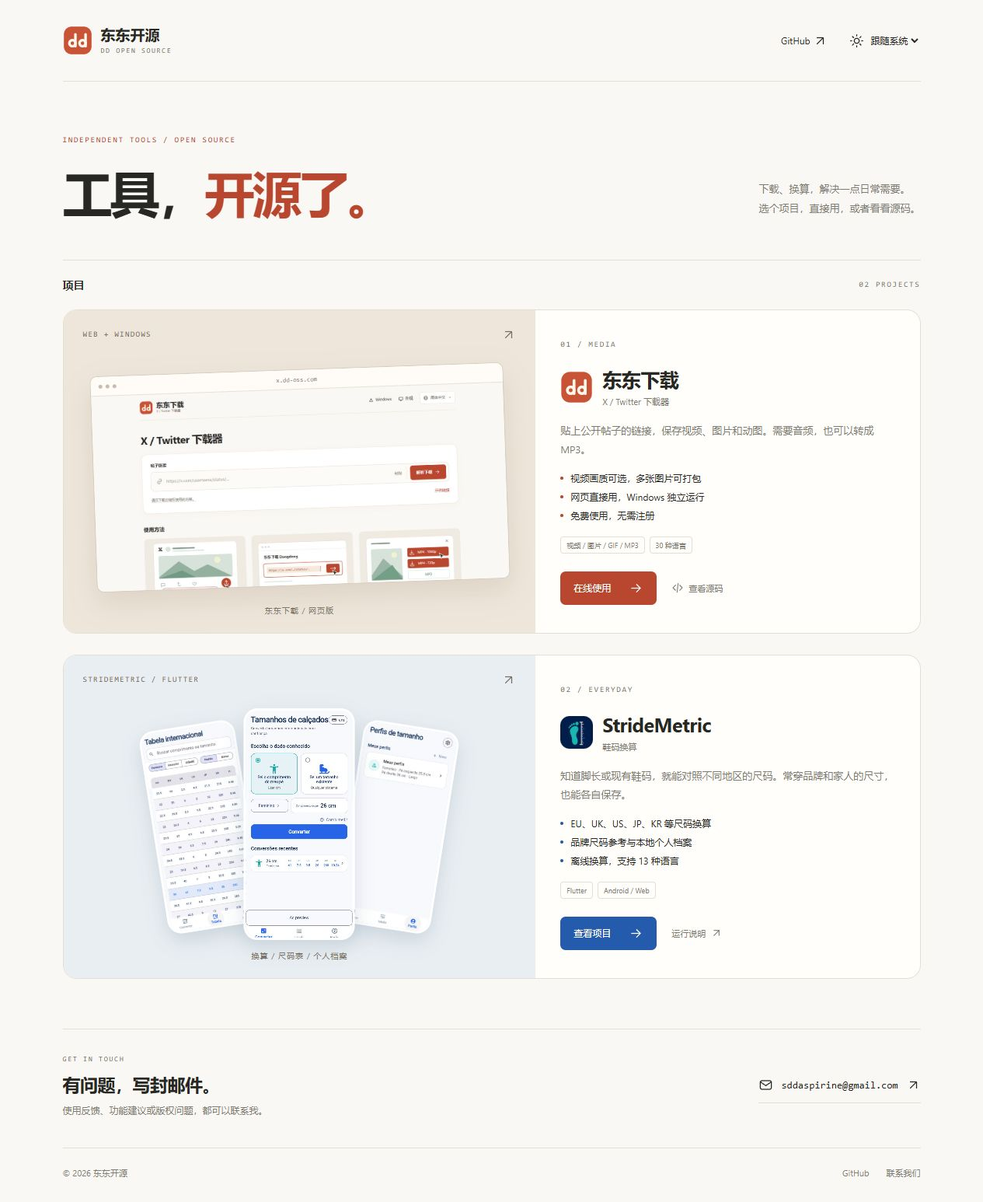
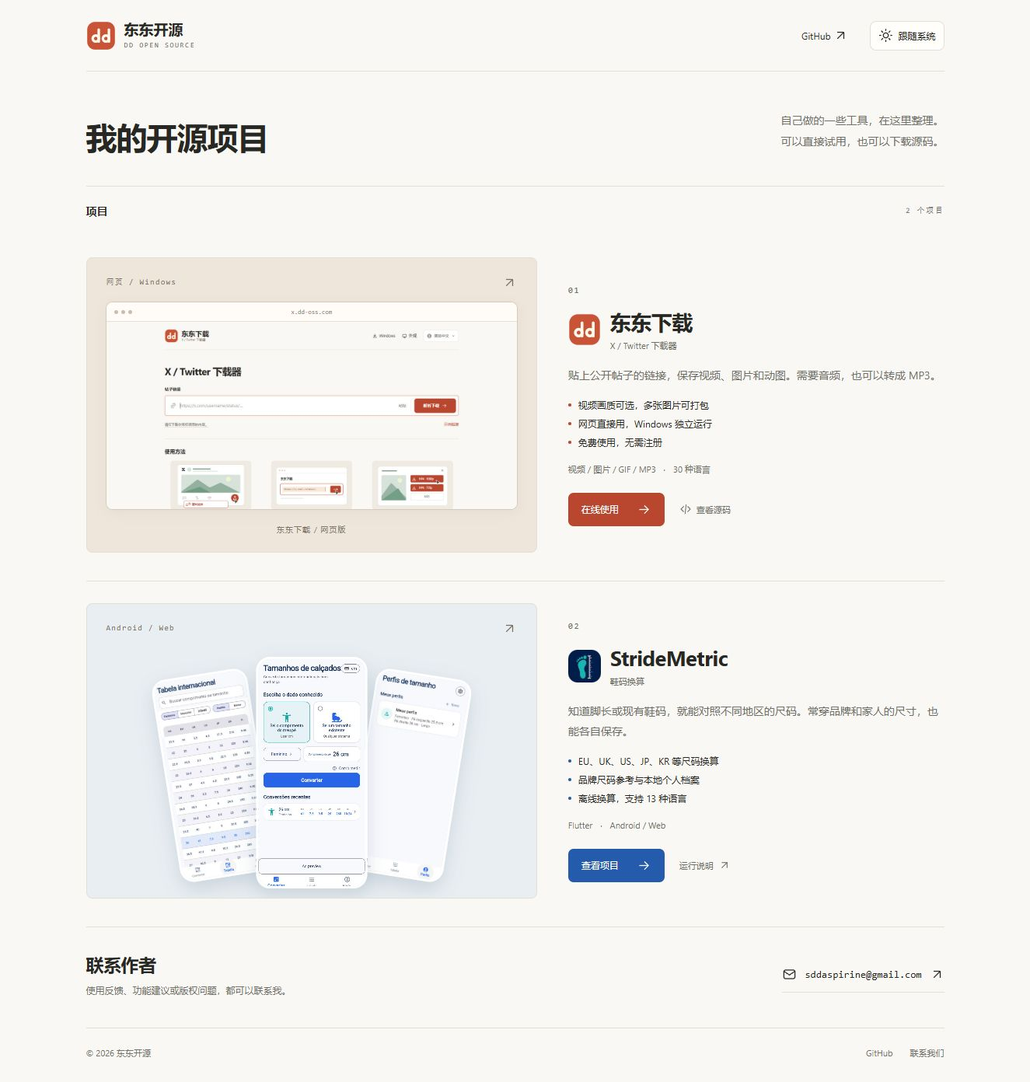
Add open-source project showcase at dd-oss.com

diff --git a/style.css b/style.css
@@ -1,7 +1,158 @@
-:root{color-scheme:light;--bg:#faf8f4;--paper:#fffefa;--ink:#272823;--muted:#7d7b72;--line:#e4dfd5;--rust:#b9472f;--green:#dce4d9;--blue:#255bad;--soft:#f1ede5;--blue-soft:#e9eef2;font-family:"Segoe UI","Microsoft YaHei UI",sans-serif;font-synthesis:none}
-*{box-sizing:border-box}body{margin:0;background:var(--bg);color:var(--ink)}a{color:inherit;text-decoration:none}svg{width:19px;height:19px;stroke:currentColor;stroke-width:1.6;fill:none;stroke-linecap:round;stroke-linejoin:round;flex-shrink:0}.symbols{position:absolute;width:0;height:0;overflow:hidden}.shell{max-width:1192px;margin:auto;padding:0 44px}header{height:105px;display:flex;align-items:center;justify-content:space-between;border-bottom:1px solid var(--line)}.brand{display:flex;align-items:center;gap:11px;font-size:19px;font-weight:700}.brand img{border-radius:11px}.brand small{display:block;font:9px/1.8 Consolas,monospace;letter-spacing:1.6px;color:var(--muted)}nav{display:flex;align-items:center;gap:28px;font-size:12px}nav>a{display:flex;align-items:center;gap:3px;padding:10px 0}.theme{display:flex;align-items:center;gap:5px}.theme select{border:0;background:transparent;color:var(--ink);font:inherit;cursor:pointer;min-height:38px}.theme select option{background:var(--paper)}.intro{padding:68px 0 50px}.eyebrow,.project-number,.preview-label,.preview-caption,.section-heading>span{font:10px/1.5 Consolas,monospace;letter-spacing:1.7px}.eyebrow{color:var(--rust);margin:0 0 22px}.intro-row{display:flex;align-items:flex-end;justify-content:space-between;gap:35px}.intro h1{font-size:64px;line-height:1.16;font-weight:650;letter-spacing:-3px;margin:0}.intro h1 span{color:var(--rust)}.intro-row>p{font-size:13px;line-height:1.9;color:var(--muted);margin:0 0 4px}.section-heading{display:flex;align-items:center;justify-content:space-between;border-top:1px solid var(--line);padding:22px 0}.section-heading h2{font-size:14px;font-weight:600;margin:0}.section-heading>span{color:var(--muted)}.project{display:grid;grid-template-columns:minmax(0,1.23fr) minmax(0,1fr);border:1px solid var(--line);border-radius:18px;overflow:hidden;background:var(--paper);margin-bottom:27px}.project-preview{height:415px;position:relative;overflow:hidden;display:block}.desktop-preview{background:#eee6db}.preview-label{position:absolute;inset:22px 25px auto;display:flex;align-items:center;justify-content:space-between;color:#776e61;z-index:1;letter-spacing:1.3px}.preview-caption{position:absolute;inset:auto 0 21px;text-align:center;color:#827668;letter-spacing:1px;font-family:inherit;font-size:10px}.browser-frame{position:absolute;top:76px;left:38px;width:calc(100% - 76px);height:278px;border:1px solid #d5cabc;border-radius:9px;overflow:hidden;background:#faf8f4;box-shadow:0 15px 35px #725d4224;transform:rotate(-2deg);transition:transform .3s}.browser-bar{height:25px;display:flex;align-items:center;gap:4px;border-bottom:1px solid #e6e0d6;background:#fffcf7;padding:0 10px;position:relative}.browser-bar i{height:5px;width:5px;border-radius:50%;background:#c8bdaf}.browser-bar span{position:absolute;left:0;right:0;text-align:center;color:#918879;font:8px Consolas,monospace}.browser-frame>img{display:block;width:100%;height:auto}.project-preview:hover .browser-frame{transform:rotate(0) translateY(-4px)}.project-copy{padding:30px 32px;display:flex;flex-direction:column;justify-content:center}.project-number{color:var(--muted);font-size:10px;margin-bottom:22px}.project-title{display:flex;align-items:center;gap:12px}.project-title img{border-radius:12px}.project-title h2{font-size:25px;font-weight:650;line-height:1.2;margin:0;letter-spacing:-.5px}.project-title h2 small{display:block;font-size:11px;color:var(--muted);font-weight:400;letter-spacing:0;margin-top:7px}.project-copy>p{font-size:13px;line-height:1.85;color:var(--muted);margin:19px 0 13px}.features{list-style:none;margin:0;padding:0;font-size:12px;line-height:2;color:var(--ink)}.features li{position:relative;padding-left:13px}.features li:before{content:"";width:4px;height:4px;border-radius:50%;background:var(--rust);position:absolute;left:0;top:10px}.tags{display:flex;gap:6px;flex-wrap:wrap;margin-top:15px}.tags span{font-size:9px;border:1px solid var(--line);padding:4px 7px;border-radius:4px;color:var(--muted)}.project-actions{display:flex;align-items:center;gap:19px;margin-top:23px;flex-wrap:wrap}.primary{display:inline-flex;align-items:center;justify-content:center;gap:23px;background:var(--rust);color:#fff;padding:12px 17px;font-size:12px;border-radius:7px;transition:transform .18s,filter .18s}.primary:hover{filter:brightness(1.08);transform:translateY(-2px)}.source{display:inline-flex;align-items:center;gap:6px;font-size:11px;color:var(--muted)}.source:hover,nav a:hover,footer a:hover{color:var(--rust)}.source svg{width:16px;height:16px}.blue{background:var(--blue)}.phone-preview{background:var(--blue-soft)}.phones{position:absolute;inset:68px 20px 47px}.phone{position:absolute;border:3px solid #fff;border-radius:18px;box-shadow:0 10px 25px #1f456728;object-fit:cover;object-position:top;transition:transform .3s}.phone.main{width:143px;height:298px;left:50%;top:0;transform:translateX(-50%);z-index:2}.phone.side{width:124px;height:263px;top:21px}.phone.left{left:calc(50% - 188px);transform:rotate(-9deg)}.phone.right{right:calc(50% - 188px);transform:rotate(9deg)}.phone-preview:hover .phone.main{transform:translateX(-50%) translateY(-5px)}.phone-preview:hover .phone.left{transform:translateX(-5px) rotate(-11deg)}.phone-preview:hover .phone.right{transform:translateX(5px) rotate(11deg)}.stride-project .features li:before{background:var(--blue)}.contact{display:flex;align-items:center;justify-content:space-between;gap:25px;margin-top:64px;padding:32px 0 40px;border-top:1px solid var(--line)}.contact .eyebrow{font-size:9px;margin:0 0 9px;color:var(--muted)}.contact h2{font-size:23px;letter-spacing:-.5px;font-weight:600;margin:0}.contact p:not(.eyebrow){font-size:12px;color:var(--muted);margin:10px 0 0}.contact>a{display:flex;align-items:center;gap:10px;font:13px Consolas,monospace;padding:13px 0;border-bottom:1px solid var(--line)}.contact>a:hover{color:var(--rust);border-color:var(--rust)}footer{padding:24px 0 30px;border-top:1px solid var(--line);font-size:11px;color:var(--muted);display:flex;justify-content:space-between;gap:20px}footer>div{display:flex;gap:22px}a:focus-visible,select:focus-visible{outline:2px solid var(--rust);outline-offset:5px;border-radius:3px}
-html[data-theme=dark]{color-scheme:dark;--bg:#191a18;--paper:#22231f;--ink:#eeeee4;--muted:#aaa99d;--line:#393b33;--rust:#ef9d7e;--green:#384635;--blue:#8fb8f0;--soft:#292b24;--blue-soft:#29343c}html[data-theme=dark] .primary{color:#24221c}html[data-theme=dark] .desktop-preview{background:#39352e}html[data-theme=dark] .preview-label,html[data-theme=dark] .preview-caption{color:#b4ae9e}html[data-theme=dark] .phone{border-color:#535c61}
-@media(prefers-color-scheme:dark){html:not([data-theme=light]):not([data-theme=dark]){color-scheme:dark;--bg:#191a18;--paper:#22231f;--ink:#eeeee4;--muted:#aaa99d;--line:#393b33;--rust:#ef9d7e;--green:#384635;--blue:#8fb8f0;--soft:#292b24;--blue-soft:#29343c}html:not([data-theme=light]):not([data-theme=dark]) .primary{color:#24221c}html:not([data-theme=light]):not([data-theme=dark]) .desktop-preview{background:#39352e}html:not([data-theme=light]):not([data-theme=dark]) .preview-label,html:not([data-theme=light]):not([data-theme=dark]) .preview-caption{color:#b4ae9e}}
-@media(max-width:900px){.shell{padding:0 28px}.intro h1{font-size:51px}.project{grid-template-columns:1fr 1fr}.project-copy{padding:25px}.browser-frame{left:22px;width:calc(100% - 44px)}.phone.main{width:127px;height:270px;top:12px}.phone.side{width:108px;height:238px;top:34px}.phone.left{left:calc(50% - 156px)}.phone.right{right:calc(50% - 156px)}}
-@media(max-width:690px){.shell{padding:0 20px}header{height:86px}.brand{font-size:17px}.brand img{width:33px;height:33px}.brand small{font-size:8px}nav{gap:14px;font-size:11px}.theme>svg{display:none}.intro{padding:43px 0 33px}.intro-row{display:block}.intro h1{font-size:42px;letter-spacing:-1.8px}.intro-row>p{margin-top:18px;font-size:12px}.eyebrow{font-size:8px;letter-spacing:1.2px;margin-bottom:16px}.project{grid-template-columns:1fr}.project-preview{height:330px}.browser-frame{height:218px;top:62px;left:30px;width:calc(100% - 60px)}.preview-label{inset:17px 20px auto;font-size:9px}.preview-caption{bottom:17px;font-size:9px}.project-copy{padding:27px}.project-number{margin-bottom:17px}.project-actions{margin-top:22px}.phones{inset:47px 20px 28px}.phone.main{top:0;height:255px;width:121px}.phone.side{top:14px;height:229px;width:107px}.phone.left{left:calc(50% - 159px)}.phone.right{right:calc(50% - 159px)}.contact{display:block;margin-top:38px;padding:27px 0 32px}.contact>a{width:max-content;max-width:100%;font-size:12px;gap:7px;margin-top:17px}.contact h2{font-size:22px}footer{font-size:10px}footer>div{gap:15px}}
-@media(prefers-reduced-motion:reduce){*{transition:none!important;scroll-behavior:auto!important}}
+:root{color-scheme:light;--bg:#faf8f4;--paper:#fffefa;--ink:#272823;--muted:#6f7068;--line:#e4dfd5;--rust:#b9472f;--green:#dce4d9;--blue:#255bad;--soft:#f1ede5;--blue-soft:#e9eef2;font-family:"Segoe UI","Microsoft YaHei UI",sans-serif;font-synthesis:none}
+
+*{box-sizing:border-box}
+body{margin:0;background:var(--bg);color:var(--ink)}
+a{color:inherit;text-decoration:none}
+svg{width:19px;height:19px;stroke:currentColor;stroke-width:1.6;fill:none;stroke-linecap:round;stroke-linejoin:round;flex-shrink:0}
+.symbols{position:absolute;width:0;height:0;overflow:hidden}
+.shell{max-width:1192px;margin:auto;padding:0 44px}
+header{height:92px;display:flex;align-items:center;justify-content:space-between;border-bottom:1px solid var(--line)}
+.brand{display:flex;align-items:center;gap:11px;font-size:19px;font-weight:700}
+.brand img{border-radius:11px}
+.brand small{display:block;font:9px/1.8 Consolas,monospace;letter-spacing:1.6px;color:var(--muted)}
+nav{display:flex;align-items:center;gap:28px;font-size:12px}
+nav>a{display:flex;align-items:center;gap:3px;padding:10px 0}
+.theme{display:flex;align-items:center;gap:5px}
+.theme select{border:0;background:transparent;color:var(--ink);font:inherit;cursor:pointer;min-height:38px}
+.theme select option{background:var(--paper)}
+.intro{padding:50px 0 40px}
+.eyebrow,.project-number,.preview-label,.preview-caption,.section-heading>span{font:10px/1.5 Consolas,monospace;letter-spacing:1.7px}
+.eyebrow{color:var(--rust);margin:0 0 22px}
+.intro-row{display:flex;align-items:flex-end;justify-content:space-between;gap:35px}
+.intro h1{font-size:40px;line-height:1.16;font-weight:650;letter-spacing:-1px;margin:0}
+.intro h1 span{color:var(--rust)}
+.intro-row>p{font-size:14px;line-height:1.9;color:var(--muted);margin:0 0 4px}
+.section-heading{display:flex;align-items:center;justify-content:space-between;border-top:1px solid var(--line);padding:22px 0}
+.section-heading h2{font-size:14px;font-weight:600;margin:0}
+.section-heading>span{color:var(--muted)}
+.project{display:grid;grid-template-columns:minmax(0,1.2fr) minmax(0,1fr);gap:40px;padding:28px 0 36px;border-bottom:1px solid var(--line);margin:0}
+.project-preview{height:380px;border:1px solid var(--line);border-radius:8px;position:relative;overflow:hidden;display:block}
+.desktop-preview{background:#eee6db}
+.preview-label{position:absolute;inset:22px 25px auto;display:flex;align-items:center;justify-content:space-between;color:#776e61;z-index:1;letter-spacing:1.3px}
+.preview-caption{position:absolute;inset:auto 0 21px;text-align:center;color:#827668;letter-spacing:1px;font-family:inherit;font-size:10px}
+.browser-frame{position:absolute;top:56px;left:24px;width:calc(100% - 48px);height:268px;border:1px solid #d5cabc;border-radius:9px;overflow:hidden;background:#faf8f4;box-shadow:0 4px 15px #725d4212;transition:border-color .15s}
+.browser-bar{height:25px;display:flex;align-items:center;gap:4px;border-bottom:1px solid #e6e0d6;background:#fffcf7;padding:0 10px;position:relative}
+.browser-bar i{height:5px;width:5px;border-radius:50%;background:#c8bdaf}
+.browser-bar span{position:absolute;left:0;right:0;text-align:center;color:#918879;font:8px Consolas,monospace}
+.browser-frame>img{display:block;width:100%;height:auto}
+.project-preview:hover .browser-frame{border-color:var(--rust)}
+.project-copy{padding:12px 0;display:flex;flex-direction:column;justify-content:center}
+.project-number{color:var(--muted);font-size:11px;margin-bottom:16px}
+.project-title{display:flex;align-items:center;gap:12px}
+.project-title img{border-radius:12px}
+.project-title h2{font-size:27px;font-weight:650;line-height:1.2;margin:0;letter-spacing:-.5px}
+.project-title h2 small{display:block;font-size:11px;color:var(--muted);font-weight:400;letter-spacing:0;margin-top:7px}
+.project-copy>p{font-size:14px;line-height:1.85;color:var(--muted);margin:19px 0 13px}
+.features{list-style:none;margin:0;padding:0;font-size:12px;line-height:2;color:var(--ink)}
+.features li{position:relative;padding-left:13px}
+.features li:before{content:"";width:4px;height:4px;border-radius:50%;background:var(--rust);position:absolute;left:0;top:10px}
+.tags{display:flex;gap:6px;flex-wrap:wrap;margin-top:15px}
+.tags span{font-size:11px;color:var(--muted)}
+.tags span+span:before{content:"·";margin-inline:4px 10px}
+.project-actions{display:flex;align-items:center;gap:19px;margin-top:23px;flex-wrap:wrap}
+.primary{display:inline-flex;align-items:center;justify-content:center;gap:23px;background:var(--rust);color:#fff;padding:12px 17px;font-size:12px;border-radius:7px;transition:transform .18s,filter .18s}
+.primary:hover{filter:brightness(.93)}
+.source{display:inline-flex;align-items:center;gap:6px;font-size:11px;color:var(--muted)}
+.source:hover,nav a:hover,footer a:hover{color:var(--rust)}
+.source svg{width:16px;height:16px}
+.blue{background:var(--blue)}
+.phone-preview{background:var(--blue-soft)}
+.phones{position:absolute;inset:68px 20px 47px}
+.phone{position:absolute;border:3px solid #fff;border-radius:18px;box-shadow:0 10px 25px #1f456728;object-fit:cover;object-position:top;transition:transform .3s}
+.phone.main{width:143px;height:298px;left:50%;top:0;transform:translateX(-50%);z-index:2}
+.phone.side{width:124px;height:263px;top:21px}
+.phone.left{left:calc(50% - 188px);transform:rotate(-9deg)}
+.phone.right{right:calc(50% - 188px);transform:rotate(9deg)}
+.phone-preview:hover .phone.main{transform:translateX(-50%) translateY(-5px)}
+.phone-preview:hover .phone.left{transform:translateX(-5px) rotate(-11deg)}
+.phone-preview:hover .phone.right{transform:translateX(5px) rotate(11deg)}
+.stride-project .features li:before{background:var(--blue)}
+.contact{display:flex;align-items:center;justify-content:space-between;gap:25px;padding:32px 0 40px}
+.contact .eyebrow{font-size:9px;margin:0 0 9px;color:var(--muted)}
+.contact h2{font-size:23px;letter-spacing:-.5px;font-weight:600;margin:0}
+.contact p:not(.eyebrow){font-size:12px;color:var(--muted);margin:10px 0 0}
+.contact>a{display:flex;align-items:center;gap:10px;font:13px Consolas,monospace;padding:13px 0;border-bottom:1px solid var(--line)}
+.contact>a:hover{color:var(--rust);border-color:var(--rust)}
+footer{padding:24px 0 30px;border-top:1px solid var(--line);font-size:11px;color:var(--muted);display:flex;justify-content:space-between;gap:20px}
+footer>div{display:flex;gap:22px}
+a:focus-visible,select:focus-visible{outline:2px solid var(--rust);outline-offset:5px;border-radius:3px}
+
+html[data-theme=dark]{color-scheme:dark;--bg:#191a18;--paper:#22231f;--ink:#eeeee4;--muted:#aaa99d;--line:#393b33;--rust:#ef9d7e;--green:#384635;--blue:#8fb8f0;--soft:#292b24;--blue-soft:#29343c}
+html[data-theme=dark] .primary{color:#24221c}
+html[data-theme=dark] .desktop-preview{background:#39352e}
+html[data-theme=dark] .preview-label,html[data-theme=dark] .preview-caption{color:#b4ae9e}
+html[data-theme=dark] .phone{border-color:#535c61}
+
+@media(prefers-color-scheme:dark){html:not([data-theme=light]):not([data-theme=dark]){color-scheme:dark;--bg:#191a18;--paper:#22231f;--ink:#eeeee4;--muted:#aaa99d;--line:#393b33;--rust:#ef9d7e;--green:#384635;--blue:#8fb8f0;--soft:#292b24;--blue-soft:#29343c}
+html:not([data-theme=light]):not([data-theme=dark]) .primary{color:#24221c}
+html:not([data-theme=light]):not([data-theme=dark]) .desktop-preview{background:#39352e}
+html:not([data-theme=light]):not([data-theme=dark]) .preview-label,html:not([data-theme=light]):not([data-theme=dark]) .preview-caption{color:#b4ae9e}
+}
+
+@media(max-width:900px){.shell{padding:0 28px}
+.intro h1{font-size:36px}
+.project{grid-template-columns:1fr 1fr}
+.project-copy{padding:10px 0}
+.browser-frame{left:22px;width:calc(100% - 44px)}
+.phone.main{width:127px;height:270px;top:12px}
+.phone.side{width:108px;height:238px;top:34px}
+.phone.left{left:calc(50% - 156px)}
+.phone.right{right:calc(50% - 156px)}
+}
+
+@media(max-width:690px){.shell{padding:0 20px}
+header{height:86px}
+.brand{font-size:17px}
+.brand img{width:33px;height:33px}
+.brand small{font-size:8px}
+nav{gap:14px;font-size:11px}
+.theme>svg{display:none}
+.intro{padding:43px 0 33px}
+.intro-row{display:block}
+.intro h1{font-size:32px;letter-spacing:-.5px}
+.intro-row>p{margin-top:18px;font-size:12px}
+.eyebrow{font-size:8px;letter-spacing:1.2px;margin-bottom:16px}
+.project{grid-template-columns:1fr;gap:20px;padding:24px 0 30px}
+.project-preview{height:330px}
+.browser-frame{height:218px;top:62px;left:30px;width:calc(100% - 60px)}
+.preview-label{inset:17px 20px auto;font-size:9px}
+.preview-caption{bottom:17px;font-size:9px}
+.project-copy{padding:0}
+.project-number{margin-bottom:17px}
+.project-actions{margin-top:22px}
+.phones{inset:47px 20px 28px}
+.phone.main{top:0;height:255px;width:121px}
+.phone.side{top:14px;height:229px;width:107px}
+.phone.left{left:calc(50% - 159px)}
+.phone.right{right:calc(50% - 159px)}
+.contact{display:block;margin-top:38px;padding:27px 0 32px}
+.contact>a{width:max-content;max-width:100%;font-size:12px;gap:7px;margin-top:17px}
+.contact h2{font-size:22px}
+footer{font-size:10px}
+footer>div{gap:15px}
+}
+
+@media(prefers-reduced-motion:reduce){*{transition:none!important;scroll-behavior:auto!important}
+}
+
+.theme-menu{position:relative;z-index:5}
+.theme-menu summary{display:flex;align-items:center;gap:7px;cursor:pointer;list-style:none;min-height:38px;padding:8px 10px;border:1px solid var(--line);border-radius:8px;background:var(--paper)}
+.theme-menu summary::-webkit-details-marker{display:none}
+.theme-menu summary:hover,.theme-menu[open] summary{color:var(--rust)}
+.theme-options{position:absolute;right:0;top:calc(100% + 7px);width:144px;padding:6px;border:1px solid var(--line);border-radius:11px;background:var(--paper);box-shadow:0 10px 30px #30281f1c}
+.theme-options button{display:flex;align-items:center;justify-content:space-between;width:100%;padding:10px;border:0;border-radius:6px;color:var(--ink);background:transparent;text-align:left;font:inherit;cursor:pointer}
+.theme-options button[aria-pressed=true]:after{content:'✓';color:var(--rust)}
+.theme-options button:hover,.theme-options button[aria-pressed=true]{color:var(--rust);background:var(--soft)}
+.theme-menu summary:focus-visible,button:focus-visible{outline:2px solid var(--rust);outline-offset:3px}
+
+dialog{max-width:410px;width:calc(100% - 36px);max-height:85vh;overflow:auto;border:1px solid var(--line);border-radius:12px;padding:25px;background:var(--paper);color:var(--ink);box-shadow:0 25px 100px #0003}
+dialog::backdrop{background:#30281f77}
+.dialog-top{display:flex;align-items:center;justify-content:space-between;gap:20px;margin-bottom:18px}
+.dialog-top h2{font-size:20px;margin:0}
+.close{width:38px;height:38px;border:1px solid var(--line);border-radius:6px;display:grid;place-items:center;background:var(--soft);color:var(--muted);cursor:pointer}
+.contact-email>span{font-size:11px;color:var(--muted);display:block;margin-bottom:8px}
+.contact-email input{width:100%;background:var(--bg);border:1px solid var(--line);border-radius:9px;color:var(--ink);padding:13px;font:15px Consolas,monospace}
+.contact-actions{display:flex;gap:22px;margin-top:20px;align-items:center}
+.contact-actions button{border:0;cursor:pointer}
+#contact-status{font-size:12px;color:var(--muted);margin:15px 0 0}
+

diff --git a/index.html b/index.html
@@ -11,24 +11,28 @@
 <body>
   <svg class="symbols" aria-hidden="true"><defs><symbol id="arrow" viewBox="0 0 24 24"><path d="M5 12h14m-6-6 6 6-6 6"/></symbol><symbol id="external" viewBox="0 0 24 24"><path d="M7 17 17 7M7 7h10v10"/></symbol><symbol id="code" viewBox="0 0 24 24"><path d="m8 7-5 5 5 5m8-10 5 5-5 5m-3-14-2 18"/></symbol><symbol id="mail" viewBox="0 0 24 24"><rect x="3" y="5" width="18" height="14" rx="3"/><path d="m3 7 9 6 9-6"/></symbol><symbol id="sun" viewBox="0 0 24 24"><circle cx="12" cy="12" r="4"/><path d="M12 2v2m0 16v2M2 12h2m16 0h2M5 5l2 2m10 10 2 2M5 19l2-2M17 7l2-2"/></symbol></defs></svg>
   <div class="shell">
-    <header><a class="brand" href="/"><img src="assets/dongdong.svg" alt="" width="38" height="38"><span>东东开源<small>DD OPEN SOURCE</small></span></a><nav aria-label="主导航"><a href="https://github.com/274335390/dd-openSource" target="_blank" rel="noopener noreferrer">GitHub <svg><use href="#external"/></svg></a><label class="theme"><svg aria-hidden="true"><use href="#sun"/></svg><select id="theme" aria-label="外观"><option value="system">跟随系统</option><option value="light">浅色</option><option value="dark">深色</option></select></label></nav></header>
+    <header><a class="brand" href="/"><img src="assets/dongdong.svg" alt="" width="38" height="38"><span>东东开源<small>DD OPEN SOURCE</small></span></a><nav aria-label="主导航"><a href="https://github.com/274335390/dd-openSource" target="_blank" rel="noopener noreferrer">GitHub <svg><use href="#external"/></svg></a><details class="theme-menu" id="theme-menu"><summary aria-label="外观"><svg aria-hidden="true"><use href="#sun"/></svg><span id="theme-label">跟随系统</span></summary><div class="theme-options"><button type="button" data-theme="light">浅色</button><button type="button" data-theme="dark">深色</button><button type="button" data-theme="system">跟随系统</button></div></details></nav></header>
     <main>
-      <section class="intro"><p class="eyebrow">INDEPENDENT TOOLS / OPEN SOURCE</p><div class="intro-row"><h1>工具，<span>开源了。</span></h1><p>下载、换算，解决一点日常需要。<br>选个项目，直接用，或者看看源码。</p></div></section>
-      <div class="section-heading"><h2>项目</h2><span>02 PROJECTS</span></div>
+      <section class="intro"><div class="intro-row"><h1>我的开源项目</h1><p>自己做的一些工具，在这里整理。<br>可以直接试用，也可以下载源码。</p></div></section>
+      <div class="section-heading"><h2>项目</h2><span>2 个项目</span></div>
       <article class="project download-project">
-        <a class="project-preview desktop-preview" href="https://x.dd-oss.com/" target="_blank" rel="noopener noreferrer" aria-label="打开东东下载在线演示"><div class="preview-label"><span>WEB + WINDOWS</span><svg><use href="#external"/></svg></div><div class="browser-frame"><div class="browser-bar"><i></i><i></i><i></i><span>x.dd-oss.com</span></div><img src="assets/x-download.png" alt="东东下载实际页面：粘贴 X 帖子链接，选择视频、图片或音频格式" width="1340" height="1244" fetchpriority="high"></div><span class="preview-caption">东东下载 / 网页版</span></a>
-        <div class="project-copy"><span class="project-number">01 / MEDIA</span><div class="project-title"><img src="assets/dongdong.svg" alt="" width="42" height="42"><h2>东东下载<small>X / Twitter 下载器</small></h2></div><p>贴上公开帖子的链接，保存视频、图片和动图。需要音频，也可以转成 MP3。</p><ul class="features"><li>视频画质可选，多张图片可打包</li><li>网页直接用，Windows 独立运行</li><li>免费使用，无需注册</li></ul><div class="tags"><span>视频 / 图片 / GIF / MP3</span><span>30 种语言</span></div><div class="project-actions"><a class="primary" href="https://x.dd-oss.com/" target="_blank" rel="noopener noreferrer">在线使用 <svg><use href="#arrow"/></svg></a><a class="source" href="https://github.com/274335390/x-download" target="_blank" rel="noopener noreferrer"><svg><use href="#code"/></svg> 查看源码</a></div></div>
+        <a class="project-preview desktop-preview" href="https://x.dd-oss.com/" target="_blank" rel="noopener noreferrer" aria-label="打开东东下载在线演示"><div class="preview-label"><span>网页 / Windows</span><svg><use href="#external"/></svg></div><div class="browser-frame"><div class="browser-bar"><i></i><i></i><i></i><span>x.dd-oss.com</span></div><img src="assets/x-download.png" alt="东东下载实际页面：粘贴 X 帖子链接，选择视频、图片或音频格式" width="1340" height="1244" fetchpriority="high"></div><span class="preview-caption">东东下载 / 网页版</span></a>
+        <div class="project-copy"><span class="project-number">01</span><div class="project-title"><img src="assets/dongdong.svg" alt="" width="42" height="42"><h2>东东下载<small>X / Twitter 下载器</small></h2></div><p>贴上公开帖子的链接，保存视频、图片和动图。需要音频，也可以转成 MP3。</p><ul class="features"><li>视频画质可选，多张图片可打包</li><li>网页直接用，Windows 独立运行</li><li>免费使用，无需注册</li></ul><div class="tags"><span>视频 / 图片 / GIF / MP3</span><span>30 种语言</span></div><div class="project-actions"><a class="primary" href="https://x.dd-oss.com/" target="_blank" rel="noopener noreferrer">在线使用 <svg><use href="#arrow"/></svg></a><a class="source" href="https://github.com/274335390/x-download" target="_blank" rel="noopener noreferrer"><svg><use href="#code"/></svg> 查看源码</a></div></div>
       </article>
       <article class="project stride-project">
-        <a class="project-preview phone-preview" href="https://github.com/274335390/stride-metric" target="_blank" rel="noopener noreferrer" aria-label="查看 StrideMetric 鞋码换算项目"><div class="preview-label"><span>STRIDEMETRIC / FLUTTER</span><svg><use href="#external"/></svg></div><div class="phones"><img class="phone side left" src="assets/stride-chart.png" alt="StrideMetric 尺码对照表实际界面" width="390" height="844" loading="lazy"><img class="phone main" src="assets/stride-converter.png" alt="StrideMetric 鞋码换算实际界面" width="390" height="844" loading="lazy"><img class="phone side right" src="assets/stride-profiles.png" alt="StrideMetric 个人档案实际界面" width="390" height="844" loading="lazy"></div><span class="preview-caption">换算 / 尺码表 / 个人档案</span></a>
-        <div class="project-copy"><span class="project-number">02 / EVERYDAY</span><div class="project-title"><img src="assets/stride-icon.png" alt="" width="42" height="42"><h2>StrideMetric<small>鞋码换算</small></h2></div><p>知道脚长或现有鞋码，就能对照不同地区的尺码。常穿品牌和家人的尺寸，也能各自保存。</p><ul class="features"><li>EU、UK、US、JP、KR 等尺码换算</li><li>品牌尺码参考与本地个人档案</li><li>离线换算，支持 13 种语言</li></ul><div class="tags"><span>Flutter</span><span>Android / Web</span></div><div class="project-actions"><a class="primary blue" href="https://github.com/274335390/stride-metric" target="_blank" rel="noopener noreferrer">查看项目 <svg><use href="#arrow"/></svg></a><a class="source" href="https://github.com/274335390/stride-metric#快速运行" target="_blank" rel="noopener noreferrer">运行说明 <svg><use href="#external"/></svg></a></div></div>
+        <a class="project-preview phone-preview" href="https://github.com/274335390/stride-metric" target="_blank" rel="noopener noreferrer" aria-label="查看 StrideMetric 鞋码换算项目"><div class="preview-label"><span>Android / Web</span><svg><use href="#external"/></svg></div><div class="phones"><img class="phone side left" src="assets/stride-chart.png" alt="StrideMetric 尺码对照表实际界面" width="390" height="844" loading="lazy"><img class="phone main" src="assets/stride-converter.png" alt="StrideMetric 鞋码换算实际界面" width="390" height="844" loading="lazy"><img class="phone side right" src="assets/stride-profiles.png" alt="StrideMetric 个人档案实际界面" width="390" height="844" loading="lazy"></div><span class="preview-caption">换算 / 尺码表 / 个人档案</span></a>
+        <div class="project-copy"><span class="project-number">02</span><div class="project-title"><img src="assets/stride-icon.png" alt="" width="42" height="42"><h2>StrideMetric<small>鞋码换算</small></h2></div><p>知道脚长或现有鞋码，就能对照不同地区的尺码。常穿品牌和家人的尺寸，也能各自保存。</p><ul class="features"><li>EU、UK、US、JP、KR 等尺码换算</li><li>品牌尺码参考与本地个人档案</li><li>离线换算，支持 13 种语言</li></ul><div class="tags"><span>Flutter</span><span>Android / Web</span></div><div class="project-actions"><a class="primary blue" href="https://github.com/274335390/stride-metric" target="_blank" rel="noopener noreferrer">查看项目 <svg><use href="#arrow"/></svg></a><a class="source" href="https://github.com/274335390/stride-metric#快速运行" target="_blank" rel="noopener noreferrer">运行说明 <svg><use href="#external"/></svg></a></div></div>
       </article>
-      <section class="contact"><div><p class="eyebrow">GET IN TOUCH</p><h2>有问题，写封邮件。</h2><p>使用反馈、功能建议或版权问题，都可以联系我。</p></div><a href="mailto:sddaspirine@gmail.com"><svg><use href="#mail"/></svg>sddaspirine@gmail.com<svg><use href="#external"/></svg></a></section>
+      <section class="contact"><div><h2>联系作者</h2><p>使用反馈、功能建议或版权问题，都可以联系我。</p></div><a href="mailto:sddaspirine@gmail.com"><svg><use href="#mail"/></svg>sddaspirine@gmail.com<svg><use href="#external"/></svg></a></section>
     </main>
     <footer><span>© <span id="year">2026</span> 东东开源</span><div><a href="https://github.com/274335390/dd-openSource" target="_blank" rel="noopener noreferrer">GitHub</a><a href="mailto:sddaspirine@gmail.com">联系我们</a></div></footer>
   </div>
+  <dialog id="contact-dialog" aria-labelledby="contact-title"><div class="dialog-top"><h2 id="contact-title">联系我们</h2><button class="close" type="button" aria-label="关闭"><svg viewBox="0 0 24 24"><path d="m6 6 12 12M6 18 18 6"/></svg></button></div><label class="contact-email"><span>Email</span><input id="contact-email" type="text" readonly value="sddaspirine@gmail.com" aria-label="Email"></label><div class="contact-actions"><button id="copy-email" class="primary" type="button">复制邮箱</button><a class="source" href="mailto:sddaspirine@gmail.com">写邮件 <svg><use href="#external"/></svg></a></div><p id="contact-status" role="status" hidden></p></dialog>
   <script>
-    const picker=document.getElementById('theme');picker.value=['light','dark'].includes(document.documentElement.dataset.theme)?document.documentElement.dataset.theme:'system';picker.onchange=()=>{document.documentElement.dataset.theme=picker.value;try{localStorage.setItem('dd-oss-theme',picker.value);}catch{}};
+    const themeMenu=document.getElementById('theme-menu'),themeLabels={light:'浅色',dark:'深色',system:'跟随系统'};
+    function updateTheme(value){document.documentElement.dataset.theme=value;document.getElementById('theme-label').textContent=themeLabels[value];document.querySelectorAll('[data-theme]').forEach(node=>{if(node.tagName==='BUTTON')node.setAttribute('aria-pressed',String(node.dataset.theme===value));});}
+    updateTheme(themeLabels[document.documentElement.dataset.theme]?document.documentElement.dataset.theme:'system');document.querySelectorAll('.theme-options button').forEach(node=>node.onclick=()=>{updateTheme(node.dataset.theme);try{localStorage.setItem('dd-oss-theme',node.dataset.theme);}catch{}themeMenu.open=false;themeMenu.querySelector('summary').focus();});document.addEventListener('click',event=>{if(!themeMenu.contains(event.target))themeMenu.open=false;});document.addEventListener('keydown',event=>{if(event.key==='Escape'&&themeMenu.open){themeMenu.open=false;themeMenu.querySelector('summary').focus();}});
+    const contactDialog=document.getElementById('contact-dialog');document.querySelectorAll('a[href="mailto:sddaspirine@gmail.com"]').forEach(link=>{if(!contactDialog.contains(link))link.onclick=event=>{event.preventDefault();document.getElementById('contact-status').hidden=true;contactDialog.showModal();};});contactDialog.querySelector('.close').onclick=()=>contactDialog.close();contactDialog.onclick=event=>{if(event.target!==contactDialog)return;const r=contactDialog.getBoundingClientRect();if(event.clientX<r.left||event.clientX>r.right||event.clientY<r.top||event.clientY>r.bottom)contactDialog.close();};document.getElementById('copy-email').onclick=async()=>{const input=document.getElementById('contact-email'),status=document.getElementById('contact-status');try{await navigator.clipboard.writeText(input.value);status.textContent='邮箱已复制';}catch{input.focus();input.select();status.textContent='请手动复制邮箱地址。';}status.hidden=false;};
     function updateYear(){const year=Math.max(2026,new Date().getFullYear());document.getElementById('year').textContent=year===2026?'2026':'2026–'+year;}updateYear();document.addEventListener('visibilitychange',()=>{if(!document.hidden)updateYear();});setInterval(updateYear,3600000);
   </script>
 </body>
